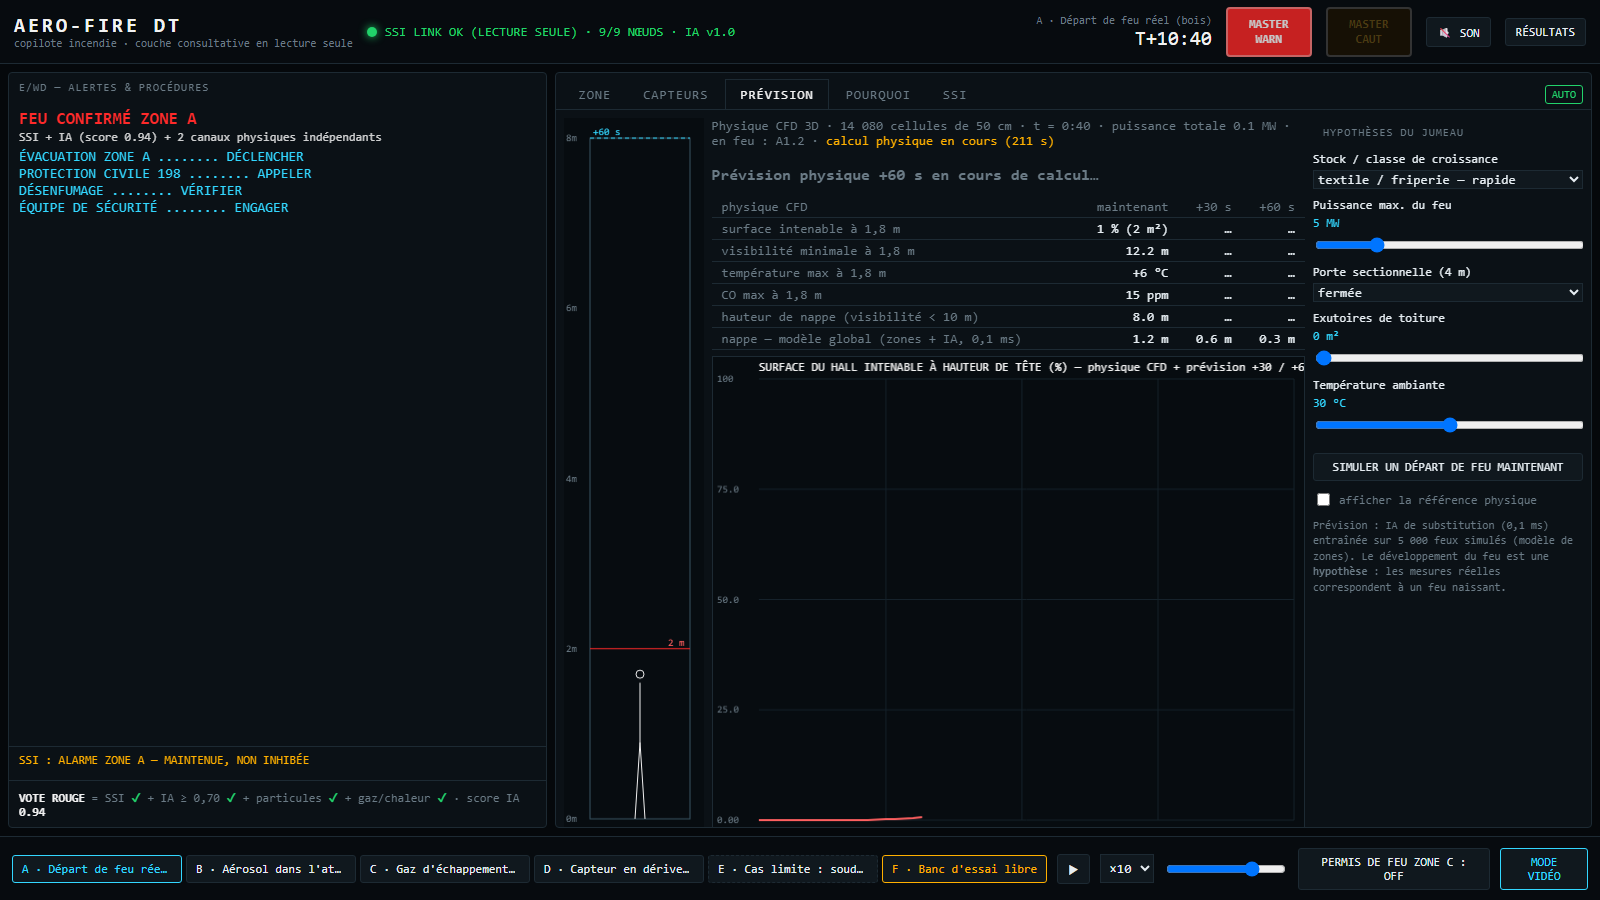
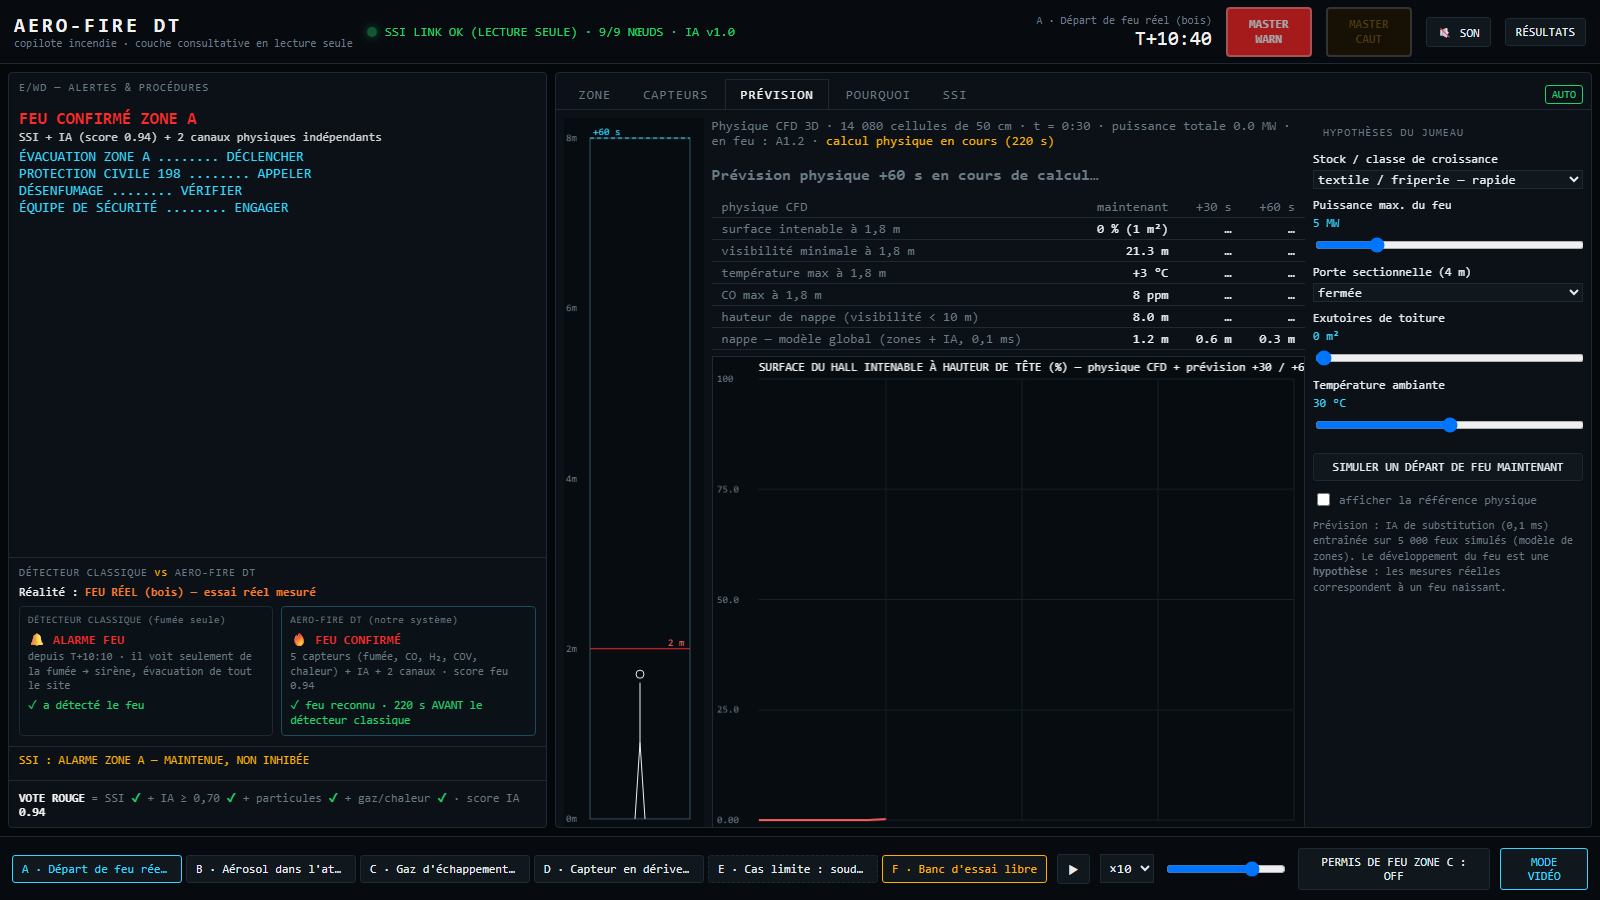
UI: classic detector vs Aero-Fire DT live comparison, bench reset/collapse, clean scene on scenario change

diff --git a/app/js/app.js b/app/js/app.js
@@ -37,6 +37,10 @@
 
   function setScenario(k, showStory) {
     st.k = k; st.i = 0; st.seen = new Set(); st.whatIf = null; setMW(false); setMC(false);
+    // clean the scene at once: no smoke, flames, markers or physics left over from the previous scenario
+    twin.clearFx();
+    Object.assign(CFD, { sim: null, key: null, snaps: [], ghost: null, job: null, hist: [], ten: null, tenTime: -1, behind: 0 });
+    if (k === SBX.k) sbNew();
     const s = scn();
     // start a little before the event for real runs
     const start = s.t.findIndex(v => v >= -60);
@@ -199,11 +203,68 @@
       : "SSI LINK OK (LECTURE SEULE) · 9/9 NŒUDS · IA v1.0";
     if (!force) checkNewAlerts(i);
     renderAlerts(i);
+    renderVersus(i);
     renderTwin(i);
     if (st.page === "sensors") renderSensors(i);
     if (st.page === "forecast") renderForecast(i);
     if (st.page === "why") renderWhy(i);
     if (st.page === "ssi") renderSSI(i);
+  }
+
+  /* ---------- classic detector vs Aero-Fire DT (live comparison) ---------- */
+  function truthOf() {
+    const s = scn();
+    if (isSandbox()) {
+      const src = SBX.sb ? SBX.sb.sources : [];
+      const f = src.filter(r => r.kind === "fire"), n = src.filter(r => r.kind !== "fire");
+      if (!src.length) return { fire: null, text: "aucune source placée" };
+      const names = src.map(r => r.icon + " " + r.label).join(" + ");
+      return { fire: f.length > 0, text: (f.length ? "FEU RÉEL" : "PAS DE FEU (nuisance)") + " · " + names };
+    }
+    if (s.kind === "fire") return { fire: true, text: "FEU RÉEL (bois) — essai réel mesuré" };
+    if (s.kind === "drift") return { fire: false, text: "PAS DE FEU — un capteur tombe en panne" };
+    return { fire: false, text: "PAS DE FEU — " + s.title.replace(/\s*\(.*\)/, "") };
+  }
+  function renderVersus(i) {
+    const s = scn(), tr = truthOf(), t = s.t[i];
+    $("vs-truth").innerHTML = "Réalité : <b class=\"" + (tr.fire === null ? "none" : tr.fire ? "fire" : "nofire") + "\">" + tr.text + "</b>";
+    // classic optical detector (= the certified SSI behaviour, single criterion: smoke particles)
+    const on = !!s.ssi.fire[i], tS = s.key_times.ssi_alarm;
+    let cS, cW, cR = "", cC = "wait";
+    if (on) { cS = '<span class="st-alarm">🔔 ALARME FEU</span>'; cW = "depuis T" + (tS >= 0 ? "+" : "") + mmss(tS) + " · il voit seulement de la fumée → sirène, évacuation de tout le site"; }
+    else { cS = '<span class="st-off">· veille</span>'; cW = "ne regarde que les particules de fumée"; }
+    if (tr.fire === true) { if (on) { cR = "✓ a détecté le feu"; cC = "good"; } else { cR = "… n'a encore rien vu"; } }
+    else if (tr.fire === false) { if (on) { cR = "✗ FAUSSE ALARME : évacuation et arrêt de production pour rien"; cC = "bad"; } else { cR = "✓ silencieux"; cC = "good"; } }
+    // Aero-Fire DT
+    const codes = activeAlerts(i).map(a => a.code), v = s.hall.verdict[i], p = s.hall.p[i];
+    let oS, oW;
+    if (codes.includes("FIRE_CONFIRMED")) oS = '<span class="st-fire">🔥 FEU CONFIRMÉ</span>';
+    else if (codes.includes("AI_PREALARM")) oS = '<span class="st-fire">⚠ PRÉ-ALARME FEU</span>';
+    else if (codes.includes("SSI_NUISANCE") || codes.includes("AI_NUISANCE")) oS = '<span class="st-nuis">✋ NUISANCE PROBABLE</span>';
+    else if (codes.includes("SSI_UNCERTAIN")) oS = '<span class="st-unc">? EN ANALYSE</span>';
+    else if (codes.includes("AI_ACTIVITY")) oS = '<span class="st-act">◔ ACTIVITÉ</span>';
+    else oS = '<span class="st-ok">● NORMAL</span>';
+    const extra = [];
+    if (codes.includes("CO_HEALTH")) extra.push("CO dangereux signalé");
+    if (codes.includes("NODE_DRIFT")) extra.push("capteur en panne exclu");
+    oW = "5 capteurs (fumée, CO, H₂, COV, chaleur) + IA + 2 canaux" + (p !== null && p !== undefined ? " · score feu " + (+p).toFixed(2) : "") + (extra.length ? " · " + extra.join(", ") : "");
+    const fireSaid = codes.includes("FIRE_CONFIRMED") || codes.includes("AI_PREALARM");
+    const nuisSaid = codes.includes("SSI_NUISANCE") || codes.includes("AI_NUISANCE");
+    let oR = "", oC = "wait";
+    const tA = s.key_times.ai_fire;
+    if (tr.fire === true) {
+      if (fireSaid) { oR = "✓ feu reconnu"; oC = "good"; if (tA !== null && (tS === null || tA < tS)) oR += " · " + (tS === null ? "le détecteur classique n'a rien vu" : Math.round(tS - tA) + " s AVANT le détecteur classique"); }
+      else if (on) oR = "… vérifie encore (l'alarme classique reste prioritaire)";
+      else oR = "… rien encore";
+    } else if (tr.fire === false) {
+      if (fireSaid) { oR = "✗ se trompe : cas limite connu (une personne vérifie)"; oC = "bad"; }
+      else if (nuisSaid) { oR = "✓ NUISANCE reconnue : on envoie 1 agent vérifier au lieu d'évacuer"; oC = "good"; }
+      else if (on) { oR = "… analyse en cours, demande une levée de doute"; }
+      else if (codes.includes("CO_HEALTH")) { oR = "✓ pas un feu, mais danger CO signalé"; oC = "good"; }
+      else { oR = "✓ pas d'alarme feu"; oC = "good"; }
+    }
+    $("vs-classic").innerHTML = '<div class="h">DÉTECTEUR CLASSIQUE (fumée seule)</div><div class="state">' + cS + '</div><div class="what">' + cW + '</div>' + (cR ? '<div class="res ' + cC + '">' + cR + "</div>" : "");
+    $("vs-ours").innerHTML = '<div class="h">AERO-FIRE DT (notre système)</div><div class="state">' + oS + '</div><div class="what">' + oW + '</div>' + (oR ? '<div class="res ' + oC + '">' + oR + "</div>" : "");
   }
 
   function renderAlerts(i) {
@@ -542,7 +603,7 @@
   function isSandbox() { const s = scn(); return !!(s && s.kind === "sandbox"); }
   function sbNew() {
     SBX.sb = new AFDT_Sandbox.Sandbox(HALL, window.AFDT_VERIFIER, { tamb: st.p.tamb, door: st.p.door, vent: st.p.vent });
-    S[SBX.k] = SBX.sb.scn;
+    S[SBX.k] = SBX.sb.scn; twin.clearFx();
     Object.assign(CFD, { sim: SBX.sb.sim, key: "sandbox", snaps: [], ghost: null, job: null, hist: [], ten: null, tenTime: -1 });
     SBX.simAcc = 0; st.i = 0; st.seen = new Set(); setMW(false); setMC(false);
     sbList();
@@ -673,7 +734,7 @@
       async () => { showPage("zone", false); caption("Un capteur dérive ? Détecté, exclu du vote : mode dégradé signalé."); return playRange(3, 600, 700, 4, token); },
       async () => {
         caption("Banc d'essai libre : un feu de bois posé près d'une étagère, un spray dans l'atelier… la physique décide.");
-        if (!SBX.sb) sbNew(); setScenario(SBX.k, false); sbNew(); setScenario(SBX.k, false);
+        setScenario(SBX.k, false);
         st.speed = 30; SBX.tool = "bois_grand"; sbPlace(5.0, 2.2); SBX.tool = "aerosol"; sbPlace(19.5, 6.5);
         showPage("zone", false); twin.setView(-0.85, 0.45, 24); await sleep(9000); return token === videoToken;
       },
@@ -693,11 +754,12 @@
   SBX.k = S.length; S.push(null);
   (function () {
     const b = document.createElement("button"); b.textContent = "F · Banc d'essai libre"; b.title = "Placez vous-même des feux et des nuisances"; b.classList.add("sandbox");
-    b.onclick = () => { stopVideo(); if (!SBX.sb) sbNew(); setScenario(SBX.k, true); };
+    b.onclick = () => { stopVideo(); setScenario(SBX.k, true); };
     $("scn-buttons").appendChild(b);
     sbBuildTools();
     $("sb-scale").oninput = e => { SBX.scale = +e.target.value; $("v-sbscale").textContent = "×" + SBX.scale; };
-    $("sb-reset").onclick = () => { sbNew(); render(true); };
+    $("sb-reset-top").onclick = () => { sbNew(); $("scrub").max = 0; render(true); };
+    $("sb-min").onclick = () => { const m = $("sandbox-panel").classList.toggle("min"); $("sb-min").textContent = m ? "+" : "–"; };
     let down = null;
     $("three").addEventListener("mousedown", e => { down = [e.clientX, e.clientY]; });
     $("three").addEventListener("mouseup", e => {

diff --git a/app/css/style.css b/app/css/style.css
@@ -195,3 +195,29 @@ body.video .story { display: none; }
 .scn-buttons button.sandbox { border-color: var(--amber); color: var(--amber); }
 
 @media (max-width: 1750px) { .source { display: none; } }
+
+/* ---- classic detector vs Aero-Fire DT ---- */
+#versus { border-top: 1px solid var(--line); padding: 8px 10px 10px; font-size: 12px; }
+.vs-title { color: var(--dim); letter-spacing: 1px; font-size: 10.5px; margin-bottom: 6px; }
+.vs-title span { color: var(--amber); }
+.vs-truth { margin-bottom: 7px; color: var(--white); }
+.vs-truth b.fire { color: #ff7a2a; } .vs-truth b.nofire { color: var(--green); } .vs-truth b.none { color: var(--dim); }
+.vs-grid { display: grid; grid-template-columns: 1fr 1fr; gap: 8px; }
+.vs-col { background: #0b1217; border: 1px solid var(--line); border-radius: 4px; padding: 7px 8px; min-height: 92px; }
+.vs-col.ours { border-color: #1c4a5a; }
+.vs-col .h { font-size: 10px; color: var(--dim); letter-spacing: .5px; margin-bottom: 4px; }
+.vs-col .state { font-size: 13px; font-weight: 600; margin-bottom: 3px; }
+.vs-col .what { color: var(--dim); font-size: 11px; line-height: 1.3; }
+.vs-col .res { margin-top: 5px; font-size: 11.5px; line-height: 1.3; }
+.st-off { color: var(--dim); } .st-alarm { color: var(--red); } .st-fire { color: var(--red); } .st-nuis { color: var(--amber); }
+.st-unc { color: var(--amber); } .st-act { color: #e8d36a; } .st-ok { color: var(--green); }
+.res.good { color: var(--green); } .res.bad { color: var(--red); } .res.wait { color: var(--dim); }
+/* ---- free-test panel ---- */
+.sb-head { display: flex; justify-content: space-between; align-items: center; padding: 2px 0 6px; }
+.sb-head .pt { padding: 0; }
+#sb-min { background: none; border: 1px solid var(--line); color: var(--text); width: 26px; height: 22px; cursor: pointer; border-radius: 3px; font-family: var(--mono); }
+.sandbox-panel.min { width: auto; }
+.sandbox-panel.min #sb-body { display: none; }
+.sb-reset-big { width: 100%; background: #3a1410; color: #ffb8a8; border: 1px solid #c0402a; border-radius: 4px; padding: 7px; font-family: var(--mono); font-size: 12px; cursor: pointer; margin-bottom: 6px; }
+.sb-reset-big:hover { background: #55190f; color: #fff; }
+.sb-help { color: var(--cyan); font-size: 11px; margin-bottom: 2px; }

diff --git a/app/js/twin3d.js b/app/js/twin3d.js
@@ -393,8 +393,10 @@
         dangerPlane.visible = !!(C.showDanger && ten);
         const dk = (C.showGhost && g ? "g" + g.time : "n" + sim.time);
         if (dangerPlane.visible && dk !== lastDangerKey) { fillDanger(sim, ten); lastDangerKey = dk; }
+        for (const id in fuelFx) { const fx = fuelFx[id]; fx.glow.material.opacity = fx.char.material.opacity = fx.warn.material.opacity = 0; }
         sim.fuel.forEach(p => {
-          const fx = fuelFx[p.id] || (fuelFx[p.id] = fuelMesh(p));
+          const key = p.id + "@" + p.cx.toFixed(2) + "," + p.cz.toFixed(2) + "," + (p.x1 - p.x0).toFixed(2);
+          const fx = fuelFx[key] || (fuelFx[key] = fuelMesh(p));
           fx.glow.material.opacity = p.burning ? Math.min(0.35, 0.08 + p.q / 9000) * (0.8 + 0.2 * Math.sin(time * 9 + p.cx)) : 0;
           fx.char.material.opacity = p.burnt ? 0.85 : p.burning ? Math.min(0.6, p.eBurnt / p.eLoad * 1.5) : 0;
           const willIgnite = C.showGhost && g && g.ignite.includes(p.id) && !p.burning;
@@ -572,7 +574,16 @@
     }
     loop();
     function update(s) { st = Object.assign({ smolder: null, cfd: null }, s); }
-    return { update, resize, renderer, pickFloor, setMarkers, setView: (a, e, d) => { az = a; el = e; dist = d; } };
+    /* wipe every visual effect at once (scenario change, bench reset) */
+    function clearFx() {
+      ALL.forEach(P => { P.life.fill(0); P.max.fill(0); P.col.fill(0); P.points.geometry.attributes.color.needsUpdate = true; });
+      smokeVol.visible = ghostVol.visible = dangerPlane.visible = false;
+      lastVolTime = -1; lastGhostTime = -1; lastDangerKey = "";
+      for (const id in fuelFx) { const fx = fuelFx[id]; fx.glow.material.opacity = fx.char.material.opacity = fx.warn.material.opacity = 0; }
+      fireLight.intensity = 0; floorGlow.material.opacity = 0;
+      setMarkers([]);
+    }
+    return { update, resize, renderer, pickFloor, setMarkers, clearFx, setView: (a, e, d) => { az = a; el = e; dist = d; } };
   }
 
   root.AFDT_Twin3D = Twin3D;

diff --git a/app/index.html b/app/index.html
@@ -26,6 +26,14 @@
   <section class="panel" id="ewd">
     <div class="panel-title">E/WD — ALERTES &amp; PROCÉDURES</div>
     <div id="alerts"></div>
+    <div id="versus">
+      <div class="vs-title">DÉTECTEUR CLASSIQUE <span>vs</span> AERO-FIRE DT</div>
+      <div class="vs-truth" id="vs-truth"></div>
+      <div class="vs-grid">
+        <div class="vs-col" id="vs-classic"></div>
+        <div class="vs-col ours" id="vs-ours"></div>
+      </div>
+    </div>
     <div id="memo"></div>
     <div class="vote" id="vote"></div>
   </section>
@@ -49,12 +57,15 @@
       </div>
       <div class="zone-note" id="zone-note"></div>
       <div class="sandbox-panel" id="sandbox-panel">
-        <div class="pt">BANC D'ESSAI LIBRE — choisissez une source, puis cliquez sur le sol</div>
+        <div class="sb-head"><span class="pt">BANC D'ESSAI LIBRE</span><button id="sb-min" title="Réduire / agrandir le panneau">–</button></div>
+        <div id="sb-body">
+        <button class="sb-reset-big" id="sb-reset-top">↺ RÉINITIALISER (vider le hall)</button>
+        <div class="sb-help">1. choisissez une source &nbsp; 2. cliquez sur le sol du hall</div>
         <div id="sb-tools"></div>
         <label class="sb-scale">Intensité <b id="v-sbscale">×1</b><input type="range" id="sb-scale" min="0.25" max="3" step="0.25" value="1"></label>
         <div id="sb-list"></div>
-        <button class="small" id="sb-reset">RÉINITIALISER LE BANC</button>
         <div class="sb-note">Capteurs synthétiques calculés par la physique CFD (mêmes unités que les capteurs réels) · même IA que les scénarios réels · test qualitatif</div>
+        </div>
       </div>
     </div>
 

diff --git a/tools/sandbox_shots.js b/tools/sandbox_shots.js
@@ -26,9 +26,9 @@ const out = path.join(root, "docs", "screenshots");
   for (const c of cases) {
     await p.evaluate(([c]) => {
       const A = window.AFDT_APP;
-      if (!A.SBX.sb) A.sbNew();
+
       A.setScenario(A.sandboxIndex(), false);
-      A.sbNew(); A.setScenario(A.sandboxIndex(), false);
+
       A.st.speed = 10; document.getElementById("speed").value = "10";
       c.tools.forEach(([k, x, z]) => { A.SBX.tool = k; A.sbPlace(x, z); });
       A.twin.setView(c.view[0], c.view[1], c.view[2]); A.CFD.showDanger = true;
